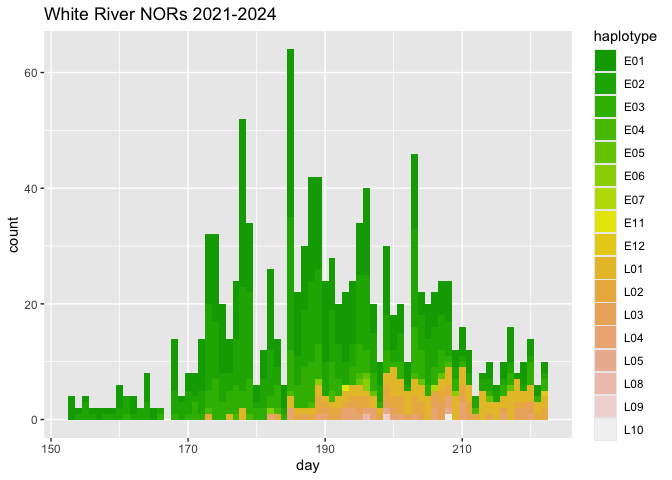
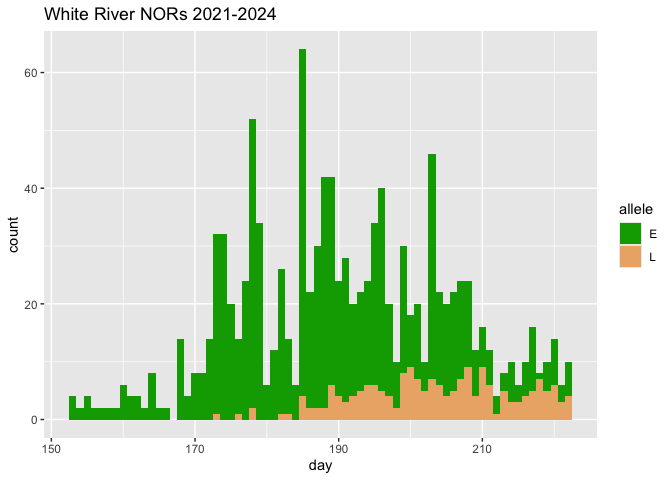
edits

diff --git a/run-timing-genetics.md b/run-timing-genetics.md
@@ -2,32 +2,11 @@ Exploratory Analysis of Run Timing Genetics
 ================
 Tyler McCraney
 
-    ##    ots28_11023212    ots28_11075348    ots28_11070757    ots28_11071377 
-    ##               497               497               498               498 
-    ##    ots28_11073668    ots28_11077016    ots28_11201129    ots28_11205423 
-    ##               498               498               498               498 
-    ##    ots28_11206740    ots28_11210919    ots28_11072994    ots28_11075712 
-    ##               498               498               499               499 
-    ##    ots28_11062192    ots28_11205993    ots28_11164637    ots28_11160599 
-    ##               500               500               501               502 
-    ##    ots28_11207428    ots28_11202400    ots28_11077576 ots37124_12272852 
-    ##               503               504               506               508 
-    ##    ots28_11095755    ots28_11025336    ots28_11077172    ots28_11186543 
-    ##               509               511               512               517 
-    ##    ots28_11202863    ots28_11073102    ots28_11033282 ots37124_12277401 
-    ##               518               528               534               535 
-    ##    ots28_11143508 ots37124_12310649    ots28_11202190 ots37124_12267397 
-    ##               537               547               564               596 
-    ## ots37124_12281207 
-    ##               778
-
-![](run-timing-genetics_files/figure-gfm/unnamed-chunk-1-1.png)<!-- -->
-
 ![](run-timing-genetics_files/figure-gfm/unnamed-chunk-2-1.png)<!-- -->
 
-#### Distribution of haplotypes, alleles, genotypes, and genetic stock assignments
+#### Comparing the temporal distribution of *GREB1L/ROCK1* Region (GRR) alleles and genotypes with respect to genetic stock assignments
 
-![](run-timing-genetics_files/figure-gfm/unnamed-chunk-3-1.png)<!-- -->![](run-timing-genetics_files/figure-gfm/unnamed-chunk-3-2.png)<!-- -->![](run-timing-genetics_files/figure-gfm/unnamed-chunk-3-3.png)<!-- -->![](run-timing-genetics_files/figure-gfm/unnamed-chunk-3-4.png)<!-- -->
+![](run-timing-genetics_files/figure-gfm/unnamed-chunk-3-1.png)<!-- -->![](run-timing-genetics_files/figure-gfm/unnamed-chunk-3-2.png)<!-- -->![](run-timing-genetics_files/figure-gfm/unnamed-chunk-3-3.png)<!-- -->
 
 ![](run-timing-genetics_files/figure-gfm/unnamed-chunk-4-1.png)<!-- -->![](run-timing-genetics_files/figure-gfm/unnamed-chunk-4-2.png)<!-- -->![](run-timing-genetics_files/figure-gfm/unnamed-chunk-4-3.png)<!-- -->![](run-timing-genetics_files/figure-gfm/unnamed-chunk-4-4.png)<!-- -->
 
